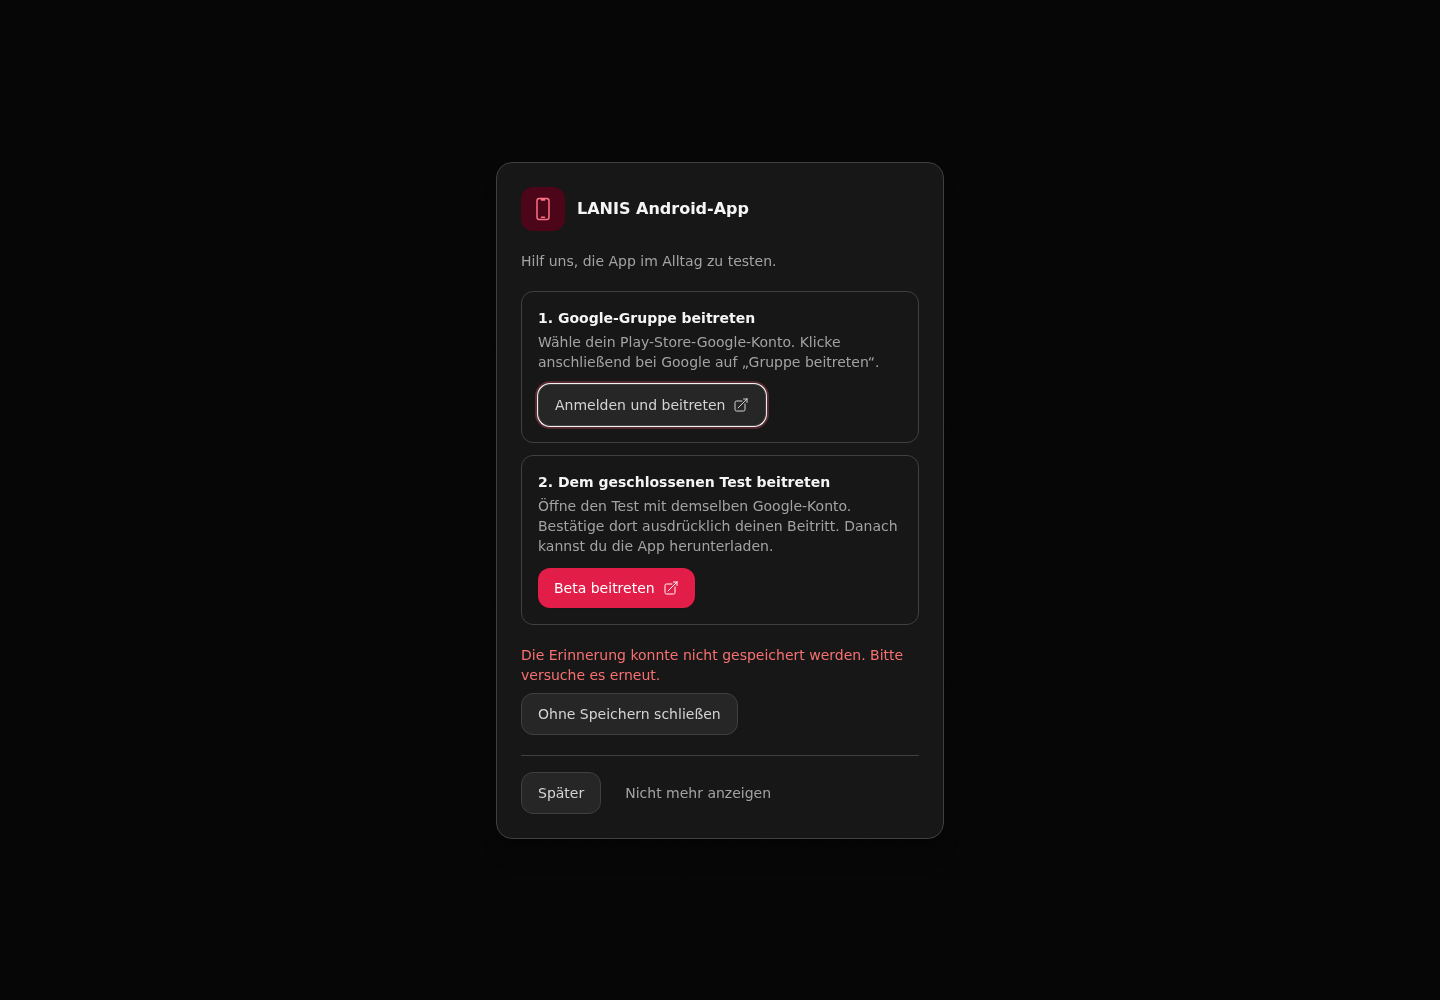
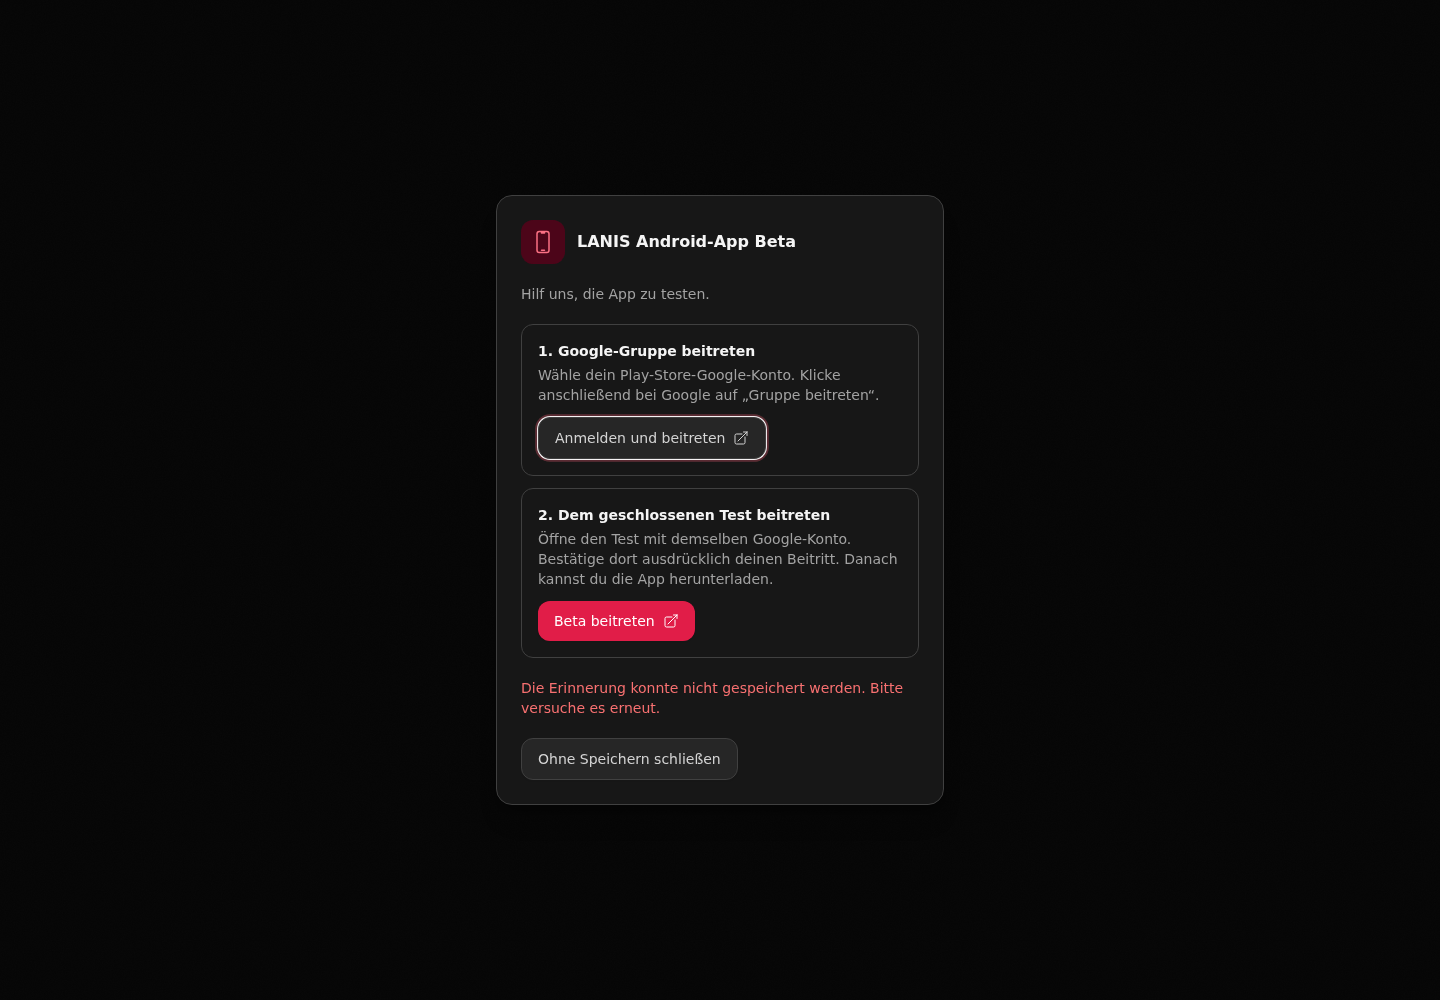
Polish beta dialog and use one permanent dismissal action

Changed region(s): [[0.3438, 0.186, 0.625, 0.837]]

diff --git a/src/components/beta/AndroidBeta.tsx b/src/components/beta/AndroidBeta.tsx
@@ -56,7 +56,7 @@ export default function AndroidBeta({ manual = false }: { manual?: boolean }) {
     const previous = document.activeElement as HTMLElement | null;
     node.showModal();
     // Only recruitment cooldown is recorded, never group membership or Play enrollment.
-    if (token && !manual) void androidBetaAPI.change(token, 'presented').catch(() => setError('Die Erinnerung konnte nicht gespeichert werden. Bitte versuche „Später“ erneut.'));
+    if (token && !manual) void androidBetaAPI.change(token, 'presented').catch(() => setError('Die Erinnerung konnte nicht gespeichert werden. Bitte versuche es erneut.'));
     return () => { node.close(); previous?.focus(); };
   }, [open, token, manual]);
 
@@ -65,7 +65,7 @@ export default function AndroidBeta({ manual = false }: { manual?: boolean }) {
     setOpen(false);
   }
 
-  async function dismiss(action: 'later' | 'dismiss') {
+  async function dismiss(action: 'dismiss') {
     if (!token || mutation.current) return;
     mutation.current = true; generation.current++; setBusy(true); setError('');
     try { setState(await androidBetaAPI.change(token, action)); setOpen(false); }
@@ -76,9 +76,9 @@ export default function AndroidBeta({ manual = false }: { manual?: boolean }) {
   const content = <div className="space-y-5">
     <div className="flex items-start gap-3">
       <span className="rounded-xl bg-primary-50 p-2.5 text-primary-600 dark:bg-primary-950 dark:text-primary-400"><DevicePhoneMobileIcon className="h-6 w-6" /></span>
-      <h2 id="beta-dialog-title" className="item-title self-center">LANIS Android-App</h2>
+      <h2 id="beta-dialog-title" className="item-title self-center">LANIS Android-App Beta</h2>
     </div>
-    <p className="text-sm text-surface-600 dark:text-surface-400">Hilf uns, die App im Alltag zu testen.</p>
+    <p className="text-sm text-surface-600 dark:text-surface-400">Hilf uns, die App zu testen.</p>
     <ol className="space-y-3">
       <li className="rounded-xl border border-surface-200 p-4 dark:border-surface-700">
         <h3 className="text-sm font-semibold">1. Google-Gruppe beitreten</h3>
@@ -91,14 +91,14 @@ export default function AndroidBeta({ manual = false }: { manual?: boolean }) {
         <a className={`btn ${state?.available ? 'btn-primary' : 'btn-secondary'} mt-3 inline-flex items-center gap-2`} href={state?.join_url || JOIN_URL} target="_blank" rel="noopener noreferrer">Beta beitreten<ArrowTopRightOnSquareIcon className="h-4 w-4" aria-hidden="true" /></a>
       </li>
     </ol>
-    {error && <div role="alert" className="space-y-2 text-sm text-red-600 dark:text-red-400"><p>{error}</p><button type="button" className="btn btn-secondary" onClick={closeLocally}>Ohne Speichern schließen</button></div>}
-    <div className="flex flex-wrap gap-2 border-t border-surface-200 pt-4 dark:border-surface-700"><button className="btn btn-secondary" disabled={busy} onClick={() => void dismiss('later')}>Später</button><button className="btn btn-ghost" disabled={busy} onClick={() => void dismiss('dismiss')}>Nicht mehr anzeigen</button></div>
+    {error && <div role="alert" className="space-y-2 text-sm text-red-600 dark:text-red-400"><p>{error}</p></div>}
+    <div>{error ? <button type="button" className="btn btn-secondary" onClick={closeLocally}>Ohne Speichern schließen</button> : <button type="button" className="btn btn-secondary" disabled={busy} onClick={() => void dismiss('dismiss')}>Nicht mehr anzeigen</button>}</div>
   </div>;
-  const popup = open ? <dialog ref={dialog} aria-labelledby="beta-dialog-title" onCancel={event => { event.preventDefault(); if (error) closeLocally(); else void dismiss('later'); }} className="m-auto max-h-[90dvh] w-[calc(100%-2rem)] max-w-md overflow-y-auto rounded-2xl border border-surface-200 bg-white p-5 text-surface-900 shadow-xl backdrop:bg-black/50 dark:border-surface-700 dark:bg-surface-900 dark:text-surface-100 sm:p-6">{content}</dialog> : null;
+  const popup = open ? <dialog ref={dialog} aria-labelledby="beta-dialog-title" onCancel={event => { event.preventDefault(); if (error) closeLocally(); else void dismiss('dismiss'); }} className="m-auto max-h-[90dvh] w-[calc(100%-2rem)] max-w-md overflow-y-auto rounded-2xl border border-surface-200 bg-white p-5 text-surface-900 shadow-xl backdrop:bg-black/50 dark:border-surface-700 dark:bg-surface-900 dark:text-surface-100 sm:p-6">{content}</dialog> : null;
   if (!manual) return popup;
   return <>
     <section className="card" aria-labelledby="beta-help-title">
-      <h3 id="beta-help-title" className="item-title">LANIS Android-App</h3>
+      <h3 id="beta-help-title" className="item-title">LANIS Android-App Beta</h3>
       <p className="mt-1 text-sm text-surface-500 dark:text-surface-400">Teste die Android-App.</p>
       <button type="button" className="btn btn-secondary mt-4" disabled={!state?.available} onClick={() => { setError(''); setOpen(true); }}>Beta ansehen</button>
       {!state && !error && <p role="status" className="mt-2 text-sm text-surface-500">Wird geladen…</p>}

diff --git a/docs/ANDROID_BETA.md b/docs/ANDROID_BETA.md
@@ -12,8 +12,8 @@ Backend configuration:
 
 After dashboard load, eligible Android browsers receive an invitation when due,
 excluding Capacitor and waiting for onboarding/other dialogs. Showing it starts a
-seven-day account-backed cooldown, as does Später. Nicht mehr anzeigen suppresses
-future invitations. Settings → App & Hilfe has a compact card whose Beta ansehen
+seven-day account-backed presentation cooldown. The single Nicht mehr anzeigen
+button permanently suppresses automatic invitations; Escape does the same. Settings → App & Hilfe has a compact card whose Beta ansehen
 button opens the same popup manually, including after permanent dismissal. It
 does not reset that preference or automatically open the dialog. The card gates
 its button on availability and supports loading/error/retry states. Disabled
@@ -41,7 +41,7 @@ describe activation and genuine 12-tester/14-day participation requirements.
 Validation: `npm test`, `npm run test:beta`, `npm run build`, and after building,
 `CHROME_PATH=/path/to/chromium npm run test:beta:browser`. Browser coverage includes
 390px/1440px dark layouts, both URLs, no email field, activation gating, native
-exclusion, cooldown/dismissal, save-failure local close, preference-load recovery
+exclusion, cooldown/dismissal, single-button permanent dismissal, save-failure local close, preference-load recovery
 and onboarding/modal arbitration. Manual-card checks cover dismissal preservation,
 focus return, availability gating and failed-load recovery. Screenshots go to `/tmp`.
 
